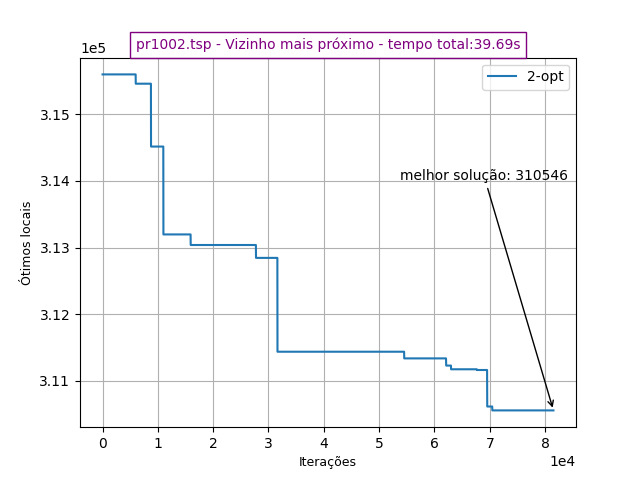
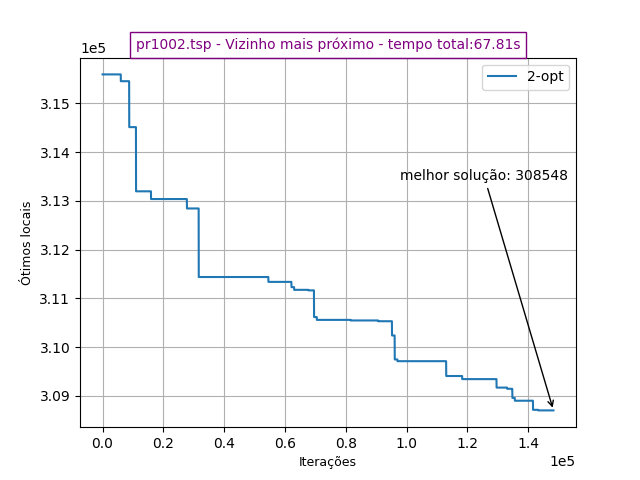
att

diff --git a/PCV/improvement.py b/PCV/improvement.py
@@ -70,6 +70,8 @@ def two_opt(graph, route, x):
         improved = False
         best_distance = sumdistance(graph, route)
         for i in range(1, size_route - 2):
+            if should_break:
+                break
             for j in range(i + 1, size_route):
                 # newRoute = two_opt_swap(route.copy(), i, k)
                 new_route = route[:]
@@ -95,7 +97,7 @@ def two_opt(graph, route, x):
                     plt_counters.append(plt_counter)
                     #################
                     """
-                if x == 1 and counter >= 20:
+                if x == 1 and counter >= 40:
                     should_break = True
                     improved = False
                     break
@@ -138,15 +140,15 @@ def three_opt(graph, route):
             for b in range(a + 2, size_route - 2 - (1 if a == 0 else 0)):
                 if should_break:
                     break
-                for c in range(b + 2, size_route - (1 if a == 0 else 0) ):
+                for c in range(b + 2, size_route - (1 if a == 0 else 0)):
 
-                    if counter >= 2:
+                    if counter >= 1:
                         should_break = True
                         break
 
                     wRoute0 = wRoute
                     # print(f'\nroute[{a}] = {route[a]} route[{b}] = {route[b]}  route[{c}] = {route[c]} route[{c} + 1] = {route[c + 1]} \n')
-                    # print(f'counter = {counter} ')
+                    print(f'counter = {counter} ')
 
                     ### trecho para matplot ###
                     plt_opts.append(wRoute)
@@ -154,10 +156,15 @@ def three_opt(graph, route):
                     plt_counters.append(plt_counter)
                     #################
 
-                    #                   P(0,A)                                    D(A,B+1)                                              P(B+1,C)                            D(C,B)                                                       R(A+1,B)                               D(A+1,C+1)                                                P(C+1, 0)
-                    wRoute1 = sumdistance(graph, route[:a + 1]) + dist_between_points(graph, route, route[a] , route[b + 1]) + sumdistance(graph, route[b + 1:c + 1]) + dist_between_points(graph, route, route[c],route[b]) + sumdistance(graph, route[b:a:-1]) + dist_between_points(graph, route, route[a + 1], route[c + 1]) + sumdistance(graph, route[c + 1:])
-
                     ### CASO 1
+                    #                   P(0,A)                                    D(A,B+1)
+                    wRoute1 = (sumdistance(graph, route[:a + 1]) + dist_between_points(graph, route, route[a] , route[b + 1]) +
+                               #       P(B+1,C)                                  D(C,B)
+                               sumdistance(graph, route[b + 1:c + 1]) + dist_between_points(graph, route, route[c],route[b]) +
+                               #       R(A+1,B)                                 D(A+1,C+1)
+                               sumdistance(graph, route[b:a:-1]) + dist_between_points(graph, route, route[a + 1], route[c + 1]) +
+                               #       P(C+1, 0)
+                               sumdistance(graph, route[c + 1:]))
                     if wRoute1 < wRoute0:
                         #                P(0,A)            P(B+1,C)         R(A+1,B)        P(C+1, 0)
                         new_route = route[:a + 1] + route[b + 1:c + 1] + route[b:a:-1] + route[c + 1:]
@@ -166,12 +173,16 @@ def three_opt(graph, route):
                         wRoute = wRoute1
                         continue
 
-                    #                   P(0,A)                                    D(A,B)                                                R (B,A+1)                            D(A+1,C)                                                     R(B+1,C)                               D(B+1,C+1)                                                P(C+1, 0)
-                    wRoute2 = sumdistance(graph, route[:a + 1]) + dist_between_points(graph, route, route[a],  route[b]) + sumdistance(graph,route[b:a:-1]) + dist_between_points(graph, route, route[a + 1], route[c]) + sumdistance(graph, route[c:b:-1]) + dist_between_points(graph, route, route[b + 1], route[c + 1]) + sumdistance(graph, route[c + 1:])
-
                     ### CASO 2
+                    #                   P(0,A)                                    D(A,B)
+                    wRoute2 = (sumdistance(graph, route[:a + 1]) + dist_between_points(graph, route, route[a],  route[b]) +
+                               #        R(B,A+1)                                  D(A+1,C)
+                               sumdistance(graph,route[b:a:-1]) + dist_between_points(graph, route, route[a + 1], route[c]) +
+                               #        R(B+1,C)                                  D(B+1,C+1)
+                               sumdistance(graph, route[c:b:-1]) + dist_between_points(graph, route, route[b + 1], route[c + 1]) +
+                               #        P(C+1, 0)
+                               sumdistance(graph, route[c + 1:]))
                     if wRoute2 < wRoute0:
-                        ### CASO 2
                         #               P(0,A)           R(B,A+1)      R(B+1,C)        P(C+1, 0)
                         new_route = route[:a + 1] + route[b:a:-1] + route[c:b:-1] + route[c + 1:]
                         counter += 1
@@ -179,12 +190,16 @@ def three_opt(graph, route):
                         wRoute = wRoute2
                         continue
 
-                    #                    P(0,A)                                    D(A,C)                                                R(B+1,C)                            D(B+1,A+1)                                                   P(A+1,B)                               D(B,C+1)                                                  P(C+1,0)
-                    wRoute3 = sumdistance(graph, route[:a + 1]) + dist_between_points(graph, route, route[a], route[c]) + sumdistance(graph, route[c:b:-1]) + dist_between_points(graph, route, route[b + 1], route[a + 1]) + sumdistance(graph, route[a + 1:b + 1]) + dist_between_points(graph, route, route[b] , route[c + 1]) + sumdistance(graph, route[c + 1:])
-
                     ### CASO 3
+                    #                    P(0,A)                                    D(A,C)
+                    wRoute3 = (sumdistance(graph, route[:a + 1]) + dist_between_points(graph, route, route[a], route[c]) +
+                               #         R(B+1,C)                                  D(B+1,A+1)
+                               sumdistance(graph, route[c:b:-1]) + dist_between_points(graph, route, route[b + 1], route[a + 1]) +
+                               #         P(A+1,B)                                  D(B,C+1)
+                               sumdistance(graph, route[a + 1:b + 1]) + dist_between_points(graph, route, route[b] , route[c + 1]) +
+                               #         P(C+1,0)
+                               sumdistance(graph, route[c + 1:]))
                     if wRoute3 < wRoute0:
-                        ### CASO3
                         #              P(0,A)        R(B+1,C)                   P(A+1,B)        P(C+1,0)
                         new_route = route[:a + 1] + route[c:b: -1] + route[a + 1:b + 1] + route[c + 1:]
                         counter += 1
@@ -192,9 +207,15 @@ def three_opt(graph, route):
                         wRoute = wRoute3
                         continue
 
-                    #                    P(0,A)                                    D(A, B+1)                                             P(B+1,C)                            D(C+1,A+1)                                                   P(A+1,B)                               D(B,C+1)                                                  P(C+1,0)
-                    wRoute4 = sumdistance(graph, route[:a + 1]) + dist_between_points(graph, route, route[a], route[b + 1]) + sumdistance(graph, route[b + 1:c + 1]) + dist_between_points(graph, route, route[c + 1], route[a + 1]) + sumdistance(graph, route[a + 1:b + 1]) + dist_between_points(graph, route, route[b], route[c + 1]) + sumdistance(graph, route[c + 1:])
-
+                    ### CASO 4
+                    #                    P(0,A)                                    D(A, B+1)
+                    wRoute4 = (sumdistance(graph, route[:a + 1]) + dist_between_points(graph, route, route[a], route[b + 1]) +
+                               #         P(B+1,C)                                  D(C+1,A+1)
+                               sumdistance(graph, route[b + 1:c + 1]) + dist_between_points(graph, route, route[c + 1], route[a + 1]) +
+                               #         P(A+1,B)                                  D(B,C+1)
+                               sumdistance(graph, route[a + 1:b + 1]) + dist_between_points(graph, route, route[b], route[c + 1]) +
+                               #         P(C+1,0)
+                               sumdistance(graph, route[c + 1:]))
                     if wRoute4 < wRoute0:
                         #              P(0,A)            P(B+1,C)             P(A+1,B)           P(C+1,0)
                         new_route = route[:a + 1] + route[b + 1: c + 1] + route[a + 1: b + 1] + route[c + 1:]
@@ -202,6 +223,8 @@ def three_opt(graph, route):
                         route = new_route
                         wRoute = wRoute4
                         continue
+
+                    ### os outros 4 casos são equivalentes ao 2opt
 
     ### trecho para matplot ###
     plt_opts.append(wRoute)

diff --git a/PCV/constructive.py b/PCV/constructive.py
@@ -106,7 +106,7 @@ def insertdist(graph):
     while localLen(route) < sizegraph - 1:
         maior = 0
         k = 1
-        selected_i = 1
+        selected_i = route[0]
         for i in range(localLen(route) - 1):
             for j in range(i + 1, sizegraph):
                 disti = localDist([graph[route[i]]['x'], graph[route[i]]['y']], [graph[j]['x'], graph[j]['y']])
@@ -119,10 +119,8 @@ def insertdist(graph):
             # print("{},{}({}) = C{},{} + C{},{} - C{},{} = {}".format(i, i + 1, k, i, k, k, i + 1, i, i + 1,all_dist[i][k] + all_dist[k][i + 1] - all_dist[i][ i + 1]))
             # all_dist[route[i]][k] + all_dist[k][route[i + 1]] - all_dist[route[i]][route[i + 1]]
             dista = int(localDist([graph[route[i]]['x'], graph[route[i]]['y']], [graph[k]['x'], graph[k]['y']]) +
-                        localDist([graph[route[i + 1]]['x'], graph[route[i + 1]]['y']],
-                                  [graph[k]['x'], graph[k]['y']]) -
-                        localDist([graph[route[i]]['x'], graph[route[i]]['y']],
-                                  [graph[route[i + 1]]['x'], graph[route[i + 1]]['y']]))
+                        localDist([graph[route[i + 1]]['x'], graph[route[i + 1]]['y']], [graph[k]['x'], graph[k]['y']]) -
+                        localDist([graph[route[i]]['x'], graph[route[i]]['y']], [graph[route[i + 1]]['x'], graph[route[i + 1]]['y']]))
             if dista < minimum:
                 minimum = dista
                 selected_i = route[i]
@@ -147,14 +145,12 @@ def insertcheap(graph):
     while True:
         k = 1
         minimum = float('inf')
-        selected_i = 1
+        selected_i = route[0]
         for i in range(localLen(route) - 1):
             for j in range(i + 1, sizegraph):
                 disti = int(localDist([graph[route[i]]['x'], graph[route[i]]['y']], [graph[k]['x'], graph[k]['y']]) +
-                            localDist([graph[route[i + 1]]['x'], graph[route[i + 1]]['y']],
-                                      [graph[k]['x'], graph[k]['y']]) -
-                            localDist([graph[route[i]]['x'], graph[route[i]]['y']],
-                                      [graph[route[i + 1]]['x'], graph[route[i + 1]]['y']]))
+                            localDist([graph[route[i + 1]]['x'], graph[route[i + 1]]['y']], [graph[k]['x'], graph[k]['y']]) -
+                            localDist([graph[route[i]]['x'], graph[route[i]]['y']], [graph[route[i + 1]]['x'], graph[route[i + 1]]['y']]))
                 if disti < minimum and graph[j]['used'] is False:
                     minimum = disti
                     selected_i = route[i]

diff --git a/PCV/aux.py b/PCV/aux.py
@@ -19,8 +19,13 @@ def plot_graf(opt_values, counter_values, constr_name, imp_name, file_name, exe_
     # print("i {}".format(counter_values))
 
     # plt.axis('auto')
-    plt.title(f'{file_name} - {constr_name} - tempo total:{exe_time}s', loc='center',bbox=dict(facecolor='none', edgecolor='purple'), color='purple', fontsize=10)
-    plt.grid(True)
+    plt.title(
+        f'{file_name} - {constr_name} - tempo total:{exe_time}s',
+        loc='center',
+        bbox=dict(facecolor='none', edgecolor='purple'),
+        color='purple',
+        fontsize=10
+    )
     plt.annotate(
         f'melhor solução: {cost}',
         xytext=(400, 300),
@@ -35,17 +40,19 @@ def plot_graf(opt_values, counter_values, constr_name, imp_name, file_name, exe_
         fontsize=11,
         bbox=dict(facecolor='none', edgecolor='purple'),
         transform=None
-    )
-    """
+    )"""
+    
     if opt_values[0] > 10000:
         plt.ticklabel_format(useOffset=True)
         plt.ticklabel_format(axis='x', style='sci', scilimits=(0,0))
         plt.ticklabel_format(axis='y', style='sci', scilimits=(0,0))
+
+    plt.grid(True)
     plt.xlabel("Iterações", fontsize=9)
     plt.ylabel("Ótimos locais", fontsize=9)
     plt.plot(counter_values, opt_values, label=f'{imp_name}')
     # plt.scatter(counter_values, opt_values, marker="+", color='red')
     plt.legend(loc='best')
     plt.savefig(f'{constr_name.replace(" ", "_") + "_" + imp_name.replace(" ", "_") + "_" + file_name.replace(" ", "_").replace(".tsp", ".png")}')
-    plt.show()
+    # plt.show()
     # print(route)

diff --git a/PCV/main.py b/PCV/main.py
@@ -11,7 +11,8 @@ import sys
 
 """
     TSP SOLVER
-    >_ python3 main.py -h       for help.
+    for help:
+    >_ python3 main.py -h   
 """
 
 if __name__ == '__main__':
@@ -86,9 +87,9 @@ if __name__ == '__main__':
             x = 1
             route = nearestneighbour(graph)
             constr_name = 'Vizinho mais próximo'
-            print(f'### Heurística construtiva {constr_name}')
+            print(f'### Heurística construtiva {constr_name}...')
 
-        ### Heurística construtiva Vizinho mais distante
+        ### Heurística construtiva Vizinho mais distante õÔ
         elif args.algoritmo_construtivo == 'vd':
             x = 1
             route = distantneighbour(graph)  # usando matriz de distâncias

diff --git a/PCV/input.py b/PCV/input.py
@@ -37,7 +37,7 @@ def fileinput():
                         help="vp para algoritmo 'Vizinho mais próximo', id para algoritmo 'Inserção do mais distante', ic para algoritmo 'Inserção mais barata' (padrão: vp )")
 
     parser.add_argument('-i', action='store', dest='algoritmo_melhorativo', default='opt2',
-                        required=False, help="opt2 para algoritmo '2-opt', n para não executar algoritmo melhorativo")
+                        required=False, help="opt2 para algoritmo '2-opt', opt3 para algoritmo '3-opt', n para não executar algoritmo melhorativo (padrão: opt2)")
 
     args = parser.parse_args()
 
